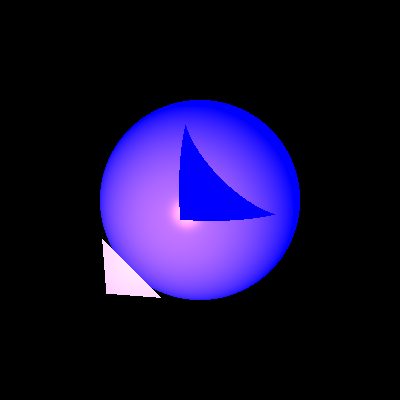
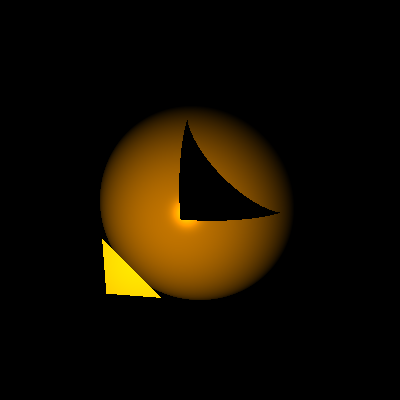
Stage 7 - Part 2 don't work wrong colors

Changed region(s): [[0.24, 0.24, 0.75, 0.75]]

diff --git a/src/renderer/RayTracerBasic.java b/src/renderer/RayTracerBasic.java
@@ -16,46 +16,66 @@ public class RayTracerBasic extends RayTracerBase {
     private static final int MAX_CALC_COLOR_LEVEL = 10;
     private static final double MIN_CALC_COLOR_K = 0.001;
 
+    private static final Double3 INITIAL_K= Double3.ONE;
+
     public RayTracerBasic(Scene scene) {
         super(scene);
     }
 
-    /**
-     * Ray head shift size for shading rays
+    /***
+     * check the closest intersection point and return the color
+     * @param ray
+     * @return color
      */
-    private static final double DELTA = 0.1;
-
-
-
-
     @Override
     public Color traceRay(Ray ray) {
-        List<GeoPoint> intsersections = scene.getGeometries().findGeoIntersections(ray);
-        if (intsersections == null)
-            return scene.getBackground();
-
-        GeoPoint closestPoint = ray.findClosestGeoPoint(intsersections);
-        return calcColor(closestPoint, ray);
+        GeoPoint closestPoint = findClosestIntersection(ray);
+        return closestPoint == null ? scene.getBackground() : calcColor(closestPoint, ray);
     }
 
     /**
-     * This function returns a color from a given point
+     * Calculates the color of the intersected object
+     * on the intersection point with a given ray.
+     * Starts the recursion call to calculate the reflection
+     * and the refraction with starting level of
+     * {@code MAX_CALC_COLOR_LEVEL} and starting k
+     * of {@code INITIAL_K}.
      *
-     * @param p point
-     * @return the color of the ambient light of the scene
+     * @param gp  the intersection point with geometry
+     * @param ray the ray that caused the intersection
+     * @return the color on the intersection point
      */
-    private Color calcColor(GeoPoint p, Ray ray) {
-        return scene.getAmbientLight().getIntensity().add(p.geometry.getEmission(), calcLocalEffects(p, ray));
+    private Color calcColor(GeoPoint gp, Ray ray) {
+        return calcColor(gp, ray, MAX_CALC_COLOR_LEVEL, INITIAL_K).add(scene.getAmbientLight().getIntensity());
     }
+
+    /**
+     * Calculates the color of the intersected object
+     * on the intersection point with a given ray.
+     * This is recursive function that calculates also
+     * the reflection and refraction.
+     *
+     * @param p  the intersection point with geometry
+     * @param ray the ray that caused the intersection
+     * @param level the recursion level
+     * @param k the ratio og the current ray's color to the color of the previous ray
+     * @return the color on the intersection point
+     */
+    private Color calcColor(GeoPoint p, Ray ray, int level, Double3 k) {
+        Color color =calcLocalEffects(p, ray, k);
+        return 1 == level ? color : color.add(calcGlobalEffects(p, ray, level, k));
+    }
+
 
     /**
      * Calculates the color of a point on a geometry, by calculating the color of the light sources that affect it
      *
      * @param geoPoint The point on the geometry that the ray intersects with.
      * @param ray      the ray that intersects the geometry
+     * @param k
      * @return The color of the point.
      */
-    private Color calcLocalEffects(GeoPoint geoPoint, Ray ray) {
+    private Color calcLocalEffects(GeoPoint geoPoint, Ray ray,Double3 k) {
         Vector v = ray.getDir();
         Vector n = geoPoint.geometry.getNormal(geoPoint.point);
         double nv = alignZero(n.dotProduct(v));
@@ -66,27 +86,62 @@ public class RayTracerBasic extends RayTracerBase {
             Vector l = lightSource.getL(geoPoint.point);
             double nl = alignZero(n.dotProduct(l));
             if (nl * nv > 0) { // sign(nl) == sing(nv)
-                if (unshaded(geoPoint, l, n, nl, lightSource)) {
-                    Color intensity = lightSource.getIntensity(geoPoint.point);
-                    color = color.add(calcDiffusive(material.kD, l, n, intensity),
-                            calcSpecular(material.kS, l, n, v, material.nShininess, intensity));
-                }
+               Double3 ktr= transparency(geoPoint,l,n,lightSource,nv);
+               if(!(ktr.product(k).lowerThan(MIN_CALC_COLOR_K))) {
+                   Color intensity = lightSource.getIntensity(geoPoint.point).scale(ktr);
+                   color = color.add(intensity.scale(calcDiffusive(material.kD, nl)),
+                           intensity.scale(calcSpecular(material, l, n, v)));
+               }
             }
         }
         return color;
     }
 
     /**
+     * It calculates the color of the point by calculating the color of the reflected and refracted rays
+     *
+     * @param gp The point on the geometry that the ray intersected with.
+     * @param ray the ray that hit the geometry
+     * @param level the recursion level.
+     * @param k the color of the light that is reflected from the current point.
+     * @return The color of the point.
+     */
+    private Color calcGlobalEffects(GeoPoint gp, Ray ray, int level, Double3 k) {
+        Color color = Color.BLACK;
+        Material material = gp.geometry.getMaterial();
+        Double3 kr =material.kR;
+        Double3 kkr = k.product(kr);
+        Vector normal = gp.geometry.getNormal(gp.point);
+
+        Ray reflectedRay = constructReflectedRay(normal, gp.point, ray.getDir());
+        GeoPoint reflectedPoint = findClosestIntersection(reflectedRay);
+        if (!kkr.lowerThan(MIN_CALC_COLOR_K)) {
+            if (reflectedPoint != null)
+                color = color.add(calcColor(reflectedPoint, reflectedRay, level - 1, kkr).scale(kr));
+        }
+
+        Double3 kt= material.kT;
+        Double3 kkt = k.product(kt);
+        Ray refractedRay = constructRefractedRay(normal, gp.point, ray.getDir());
+        GeoPoint refractedPoint = findClosestIntersection(refractedRay);
+        if (!kkt.lowerThan(MIN_CALC_COLOR_K)) {
+            if (refractedPoint != null) {
+                color = color.add(calcColor(refractedPoint, refractedRay, level - 1, kkt).scale(kt));
+            }
+        }
+        return color;
+    }
+
+
+    /**
      * Calculate the diffusive component of the light intensity at a point on a surface
      *
      * @param kD        The diffuse coefficient of the material.
-     * @param l         the vector from the point on the surface to the light source
-     * @param n         the normal vector of the surface
-     * @param intensity the color of the light source
-     * @return The color of the diffuse reflection.
+     * @param nl         the vector from the point on the surface to the light source dotproduct with the normal vector of the surface
+     * @return The diffuse coefficient
      */
-    private Color calcDiffusive(Double3 kD, Vector l, Vector n, Color intensity) {
-        return intensity.scale(kD.scale(Math.abs(l.dotProduct(n))));
+    private Double3 calcDiffusive(Double3 kD, double nl) {
+        return kD.scale(Math.abs(nl));
     }
 
     /**
@@ -94,74 +149,96 @@ public class RayTracerBasic extends RayTracerBase {
      * is equal to the product of the intensity of the light source and the specular coefficient of the
      * material, raised to the power of the shininess of the material
      *
-     * @param kS         The specular coefficient.
      * @param l          the vector from the point to the light source
      * @param n          normal vector
      * @param v          the vector from the point to the camera
-     * @param nShininess The shininess of the material.
-     * @param intensity  the color of the light source
-     * @return The color of the point on the surface of the sphere.
+     * @return The specular coefficient
      */
-    private Color calcSpecular(Double3 kS, Vector l, Vector n, Vector v, int nShininess, Color intensity) {
+    private Double3 calcSpecular(Material mat, Vector l, Vector n, Vector v) {
         Vector r = l.subtract(n.scale(2 * (l.dotProduct(n))));
-        return intensity.scale(kS.scale(Math.pow(Math.max(v.scale(-1).dotProduct(r), 0), nShininess)));
+        return mat.kS.scale(Math.pow(Math.max(v.scale(-1).dotProduct(r), 0), mat.nShininess));
     }
 
     /**
-     * Check non-shading between a dot and the signature light source
+     * If the ray from the point to the light source intersects any geometry, then the point is shaded, otherwise it's
+     * unshaded
      *
-     * @param gp
-     * @param l
-     * @param n
-     * @param nl
-     * @param lightSource
-     * @return true
+     * @param LightSource The light source
+     * @param gp    The point on the geometry that we're shading.
+     * @param l     The vector from the light source to the point on the geometry.
+     * @param n     the normal vector to the surface at the intersection point
+     * @param nv    the dot product of the normal vector and the vector from the light source to the point.
+     * @return true if the point is unshaded, and false if it is shaded.
      */
-    private boolean unshaded(GeoPoint gp, Vector l, Vector n, double nl, LightSource lightSource) {
+    /*private boolean unshaded(GeoPoint gp,LightSource lightSource, Vector l, Vector n, double nl)
+    {
+        return transparency(gp,l,n,lightSource,nl) == Double3.ZERO ? true : false;
+    }*/
+
+    /**
+     * The function calculates the transparency of the point, by calculating the transparency of each point on the way to
+     * the light source
+     * @param geoPoint The point on the geometry that we are currently calculating the color for.
+     * @param l the direction of the light source
+     * @param n The normal vector of the point on the surface of the object.
+     * @param nl
+     * @param lightSource The light source
+     * @return the transparency coefficient
+     */
+    private Double3 transparency(GeoPoint geoPoint, Vector l, Vector n, LightSource lightSource,double nl) {
         Vector lightDirection = l.scale(-1); // from point to light source
-        Vector epsVector = n.scale(nl <0 ? DELTA : -DELTA).normalize();
-        Point point = gp.point.add(epsVector);
-        Ray lightRay = new Ray(point, lightDirection);
-        List<GeoPoint> intersections = scene.getGeometries().findGeoIntersections(lightRay,lightSource.getDistance(gp.point));
-        return intersections==null;
+        Ray lightRay = new Ray(geoPoint.point, lightDirection,n);
+        List<GeoPoint> intersections = scene.getGeometries().findGeoIntersections(lightRay,lightSource.getDistance(geoPoint.point));
+        if(intersections ==null)
+            return Double3.ONE;
+        Double3 ktr = Double3.ONE;
+        double distance =lightSource.getDistance(geoPoint.point);
+        for(GeoPoint gp :intersections){
+            if(alignZero(gp.point.distance(geoPoint.point)-distance)<=0){
+                ktr = ktr.product(gp.geometry.getMaterial().kT);
+                if(ktr.lowerThan(MIN_CALC_COLOR_K)) return Double3.ZERO;
+            }
+        }
+        return ktr;
     }
 
-    private Color calcGlobalEffects(GeoPoint gp, Ray ray) {
-        Color color = Color.BLACK;
-        Ray reflectedRay = constructReflectedRay(n, gp.point, inRay);
-        GeoPoint reflectedPoint = findClosestIntersection(reflectedRay);
-        if (…) color = color.add(calcColor(reflectedPoint, reflectedRay)
-                .scale(gp.geometry.getKr()));
-        Ray refractedRay = constructRefractedRay(gp.point, inRay);
-        GeoPoint refractedPoint = findClosestIntersection(refractedRay);
-        if (…) color = color.add(calcColor(refractedPoint, refractedRay)
-                .scale(gp.geometry.getKt());
-        return color;
-    }
+
 
     /**
      *  Construct a reflected ray from a point, a normal vector, and an incoming ray
      *
-     * @param n The normal vector of the surface at the point of intersection.
+     * @param normal The normal vector of the surface at the point of intersection.
      * @param point The point of intersection
      * @param inRay The ray that hit the object
      * @return A ray that is reflected off the surface of the object.
      */
-    private Ray constructReflectedRay(Vector n, Point point, Vector inRay) {
-        return new Ray(point, inRay.subtract(n.scale(2 * inRay.dotProduct(n))), n);
+    private Ray constructReflectedRay(Vector normal, Point point, Vector inRay) {
+        Vector dir = inRay.subtract(normal.scale(2 * inRay.dotProduct(normal)));
+        return new Ray(point, dir, normal);
     }
 
     /**
      * Construct a refracted ray from the intersection point, the incoming ray, and the normal vector.
      *
-     * @param n the normal vector of the surface
+     * @param normal the normal vector of the surface
      * @param point The point of intersection between the ray and the object.
      * @param inRay the ray that hit the object
      * @return A new ray with the same origin as the point of intersection, the same direction as the incoming ray, and the
      * same normal as the normal of the surface.
      */
-    private Ray constructRefractedRay(Vector n, Point point, Vector inRay) {
-        return new Ray(point, inRay, n);
+    private Ray constructRefractedRay(Vector normal, Point point, Vector inRay) {
+        return new Ray(point, inRay, normal);
+    }
+
+    /**
+     * It finds the closest intersection point of a ray with the scene's geometries
+     *
+     * @param ray The ray that we want to find the closest intersection to.
+     * @return The closest intersection point to the camera.
+     */
+    private GeoPoint findClosestIntersection(Ray ray) {
+        List<GeoPoint> intersections = scene.getGeometries().findGeoIntersections(ray);
+        return ray.findClosestGeoPoint(intersections);
     }
 
 }

diff --git a/src/primitives/Ray.java b/src/primitives/Ray.java
@@ -15,6 +15,11 @@ public class Ray {
     private Vector dir;
 
     /**
+     * Ray head shift size for shading rays
+     */
+    private static final double DELTA = 0.1;
+
+    /**
      * ctor for Ray
      * @param p
      * @param vec
@@ -22,6 +27,20 @@ public class Ray {
     public Ray(Point p,Vector vec) {
         this.dir=vec.normalize();
         this.p0=p;
+    }
+
+    /**
+     *  Constructor that creates a ray from a point, a direction and a normal.
+     *
+     * @param head head of the ray
+     * @param direction direction of the vector
+     * @param normal normal vector
+     */
+    public Ray(Point head, Vector direction, Vector normal) {
+        double nd = normal.dotProduct(direction);
+        Vector epsVector = normal.scale( nd >= 0 ? DELTA : - DELTA);
+        p0 = head.add(epsVector);
+        dir = direction;
     }
 
     @Override
